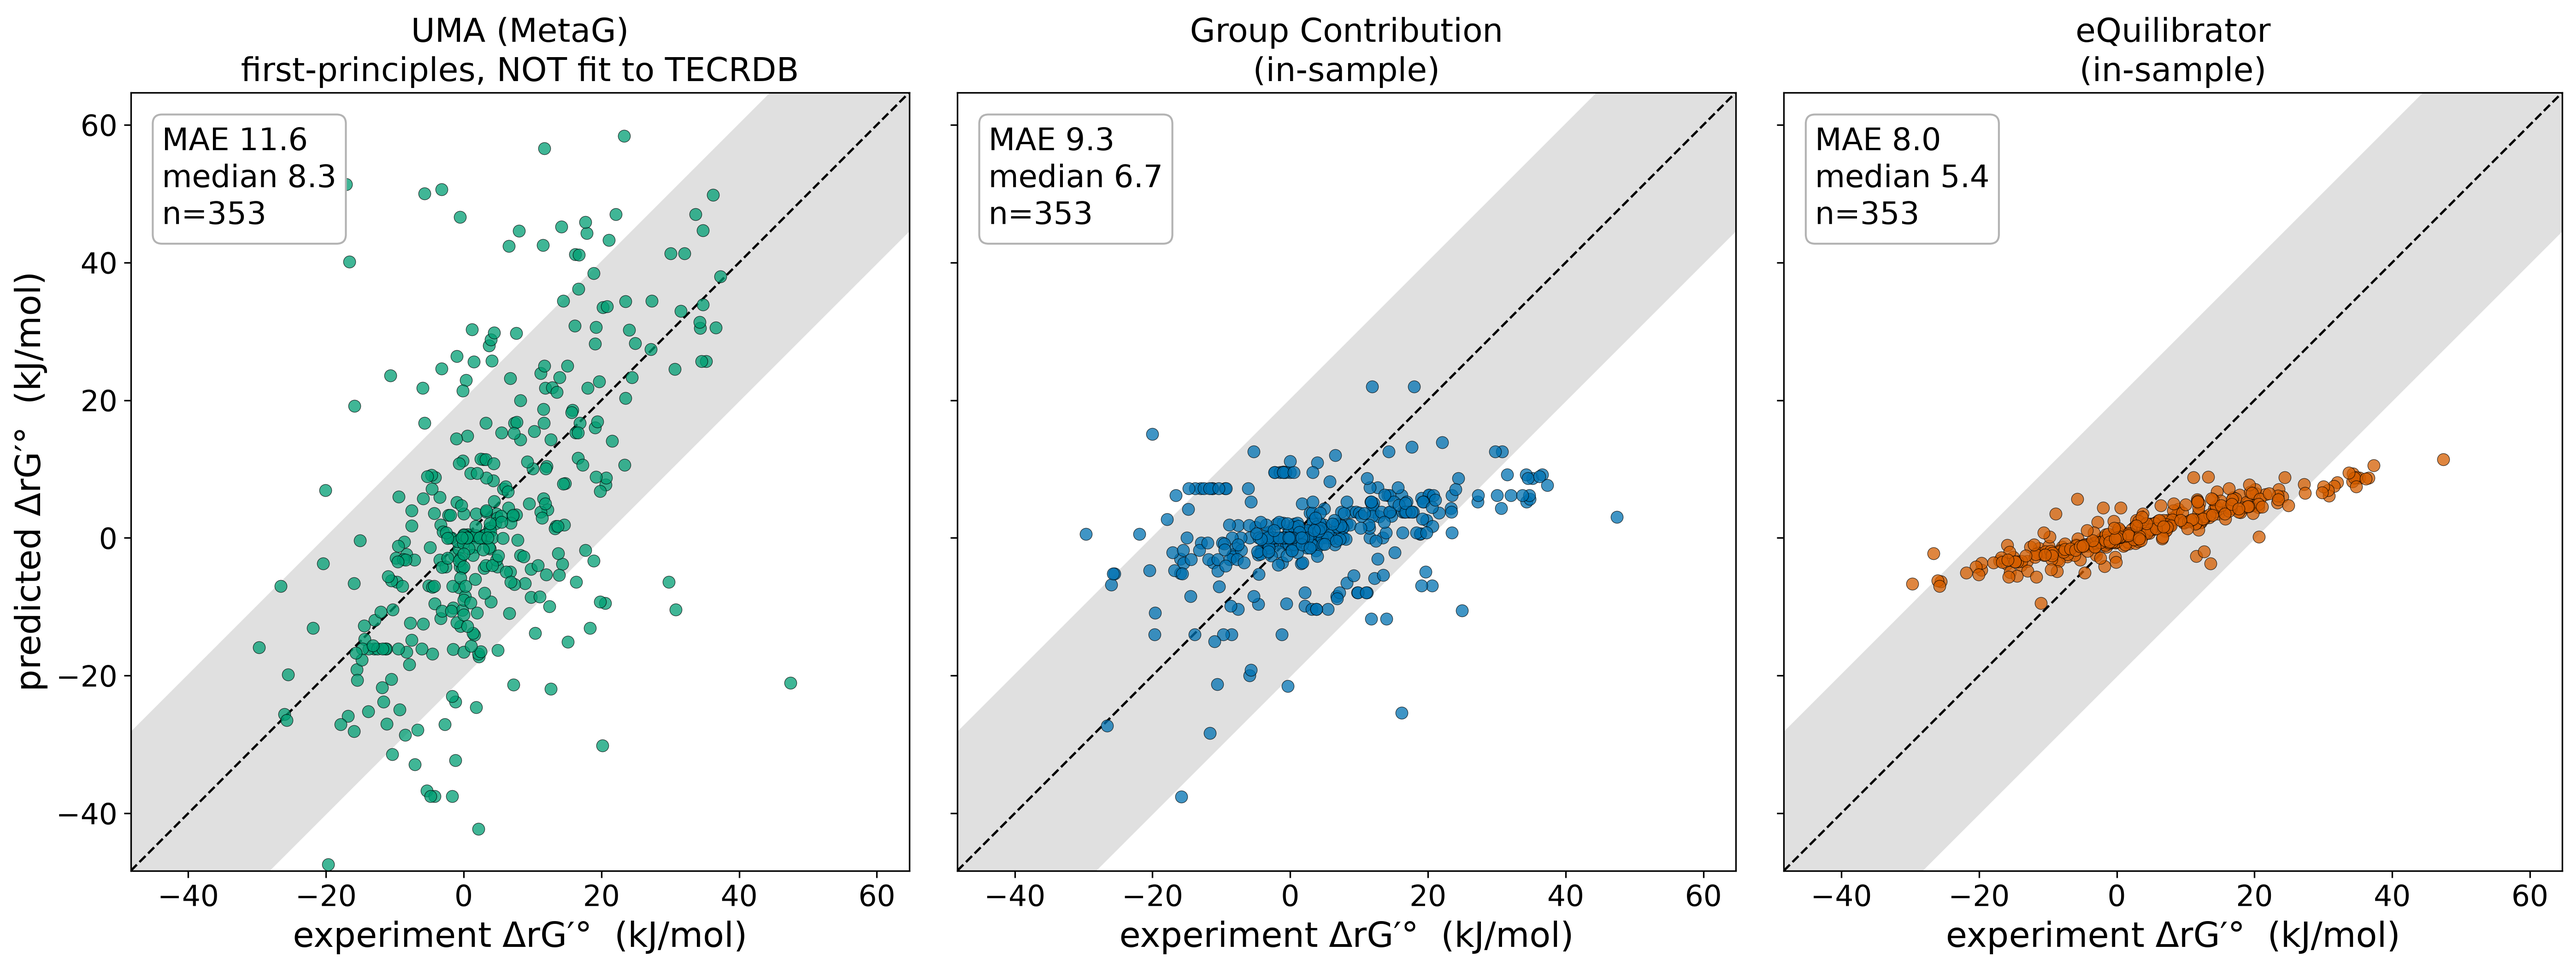
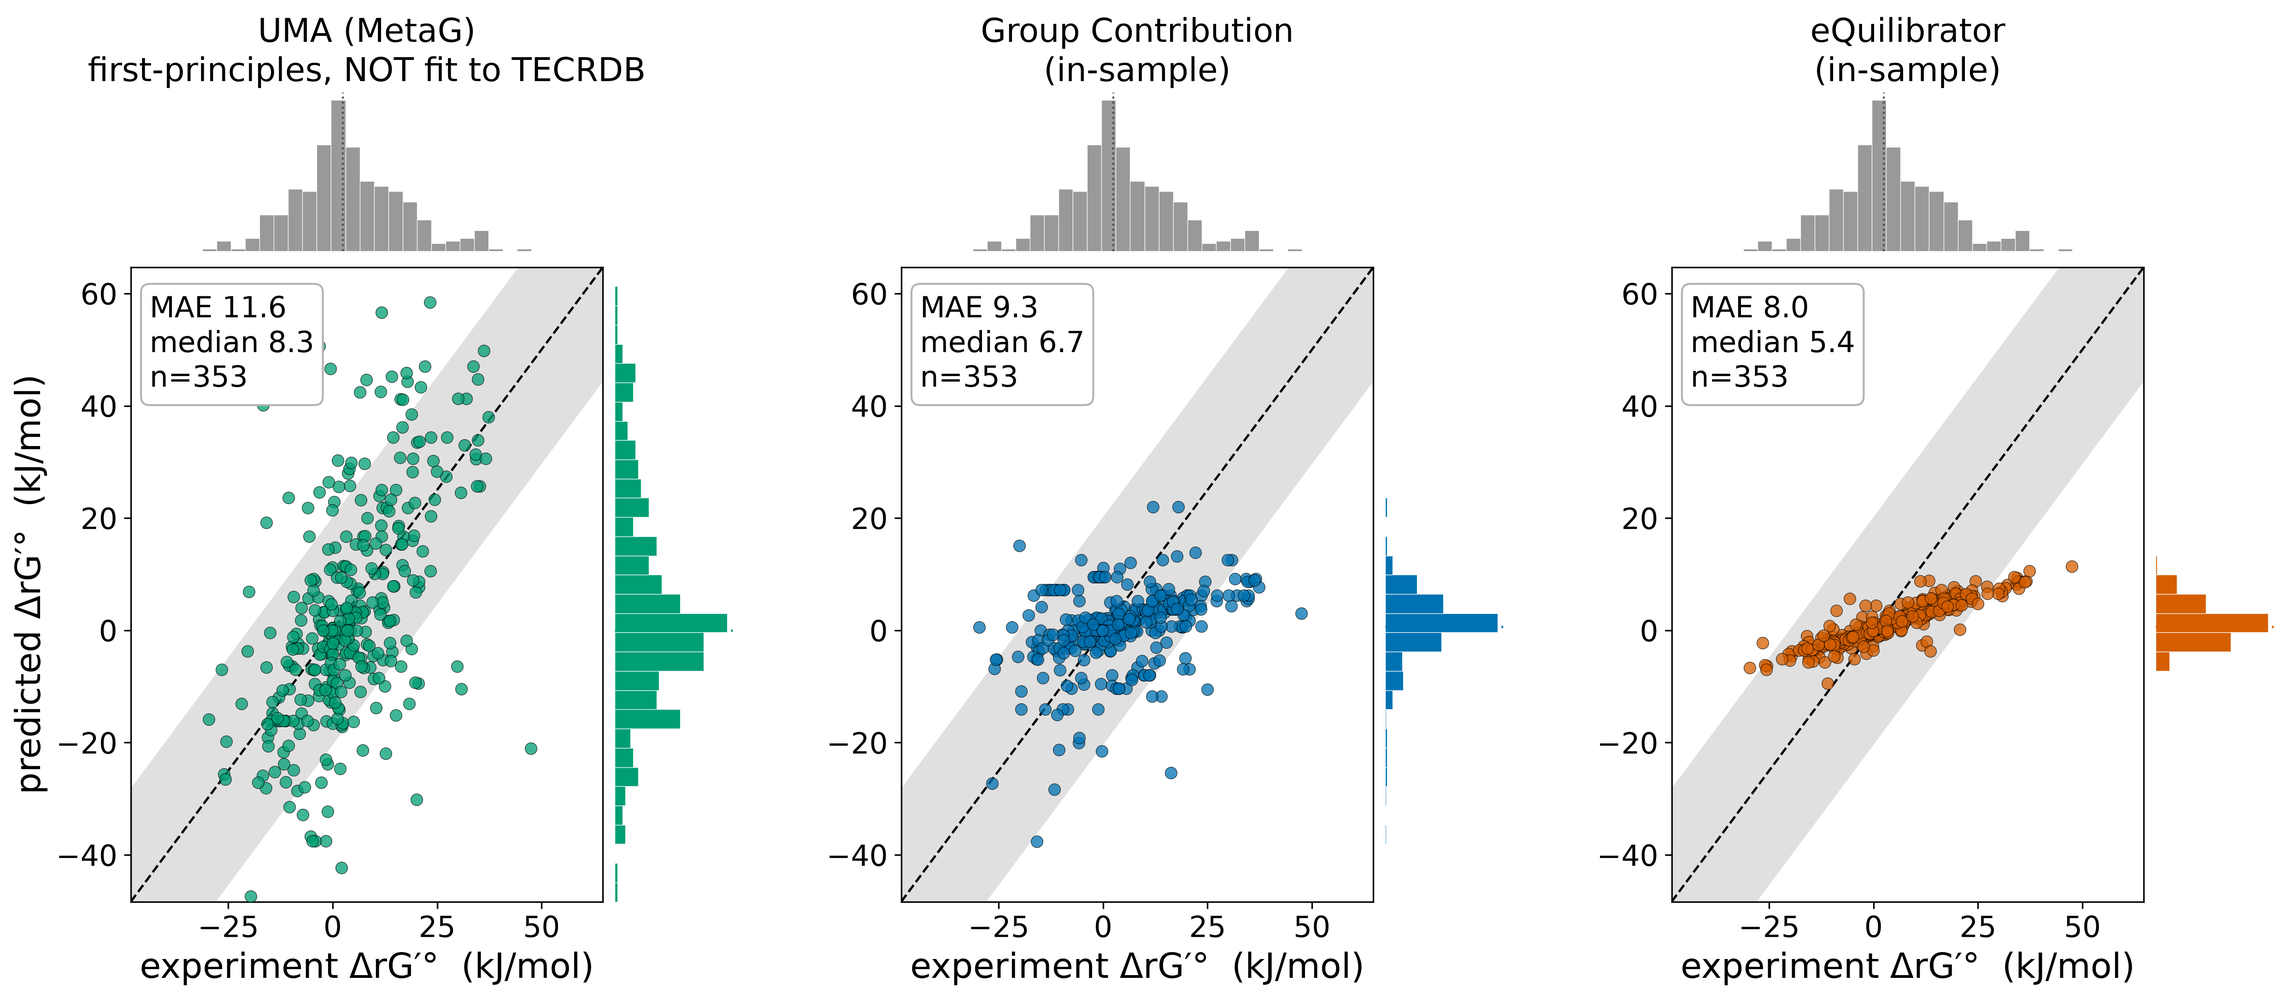
MetaG: add marginal histograms to TECRDB three-way (visualize range dispersion)
Top marginal = experiment (same all panels); right marginal = predicted (per method). Makes the
dispersion mismatch visible and quantified (std of ΔrG distribution, n=353):
  experiment 12.6 kJ | UMA 19.6 (OVER-disperses, noisier but reaches tails) |
  GC 6.8 / eQ 8.0 (UNDER-disperse: regress to mean, under-call extremes).
Correction to earlier phrasing: neither reproduces the true spread -- incumbents too narrow, UMA
too wide. Marginals hidden-axis (shape only) to keep the 18pt text rule clean.

diff --git a/MetaG/analysis/tecrdb_threeway.py b/MetaG/analysis/tecrdb_threeway.py
@@ -40,20 +40,35 @@ COL = {"UMA (MetaG)\nfirst-principles, NOT fit to TECRDB": "#009E73",
 
 lim = [np.percentile(np.concatenate([E]+list(preds.values())), 1) - 20,
        np.percentile(np.concatenate([E]+list(preds.values())), 99) + 20]
-fig, axes = plt.subplots(1, 3, figsize=(19, 6.6), sharex=True, sharey=True)
-for ax, (name, P) in zip(axes, preds.items()):
+bins = np.linspace(lim[0], lim[1], 34)
+fig = plt.figure(figsize=(20, 7.6))
+outer = fig.add_gridspec(1, 3, wspace=0.28)
+for i, (name, P) in enumerate(preds.items()):
+    inner = outer[i].subgridspec(2, 2, width_ratios=[4, 1], height_ratios=[1, 4], wspace=0.04, hspace=0.04)
+    ax = fig.add_subplot(inner[1, 0])
+    axtop = fig.add_subplot(inner[0, 0], sharex=ax)
+    axright = fig.add_subplot(inner[1, 1], sharey=ax)
     err = np.abs(P - E)
+    # scatter + parity + ±20 band
     ax.fill_between(lim, [lim[0]-20, lim[1]-20], [lim[0]+20, lim[1]+20], color="0.88", zorder=0)
     ax.plot(lim, lim, "--", color="black", lw=1.2, zorder=1)
-    ax.scatter(E, P, s=40, color=COL[name], edgecolor="black", linewidth=0.3, alpha=0.75, zorder=3)
-    ax.set_xlim(lim); ax.set_ylim(lim); ax.set_aspect("equal")
-    ax.set_title(name, fontsize=17)
+    ax.scatter(E, P, s=38, color=COL[name], edgecolor="black", linewidth=0.3, alpha=0.75, zorder=3)
+    ax.set_xlim(lim); ax.set_ylim(lim)
     ax.set_xlabel("experiment ΔrG′°  (kJ/mol)")
+    if i == 0:
+        ax.set_ylabel("predicted ΔrG′°  (kJ/mol)")
     ax.text(0.04, 0.96, f"MAE {err.mean():.1f}\nmedian {np.median(err):.1f}\nn={len(K)}",
-            transform=ax.transAxes, va="top", ha="left", fontsize=16,
+            transform=ax.transAxes, va="top", ha="left", fontsize=15,
             bbox=dict(boxstyle="round", fc="white", ec="0.7"))
-axes[0].set_ylabel("predicted ΔrG′°  (kJ/mol)")
-fig.tight_layout()
+    # top marginal = experiment (same everywhere -> grey); right marginal = predicted (method colour)
+    axtop.hist(E, bins=bins, color="0.6", edgecolor="white", linewidth=0.3)
+    axright.hist(P, bins=bins, orientation="horizontal", color=COL[name], edgecolor="white", linewidth=0.3)
+    axtop.set_title(name, fontsize=17)
+    for a in (axtop, axright):                          # marginals show SHAPE only; drop ticks (keeps 18pt rule clean)
+        a.axis("off")
+    # dashed guides on the marginals so the reader sees experiment-vs-predicted spread mismatch
+    axtop.axvline(np.median(E), color="0.3", ls=":", lw=1)
+    axright.axhline(np.median(P), color=COL[name], ls=":", lw=1.2)
 out = os.path.join(HERE, "..", "figures", "tecrdb_threeway.png")
 fig.savefig(out, bbox_inches="tight")
 print(f"n={len(K)}  MAE: UMA {np.abs(preds[list(preds)[0]]-E).mean():.1f}  "
